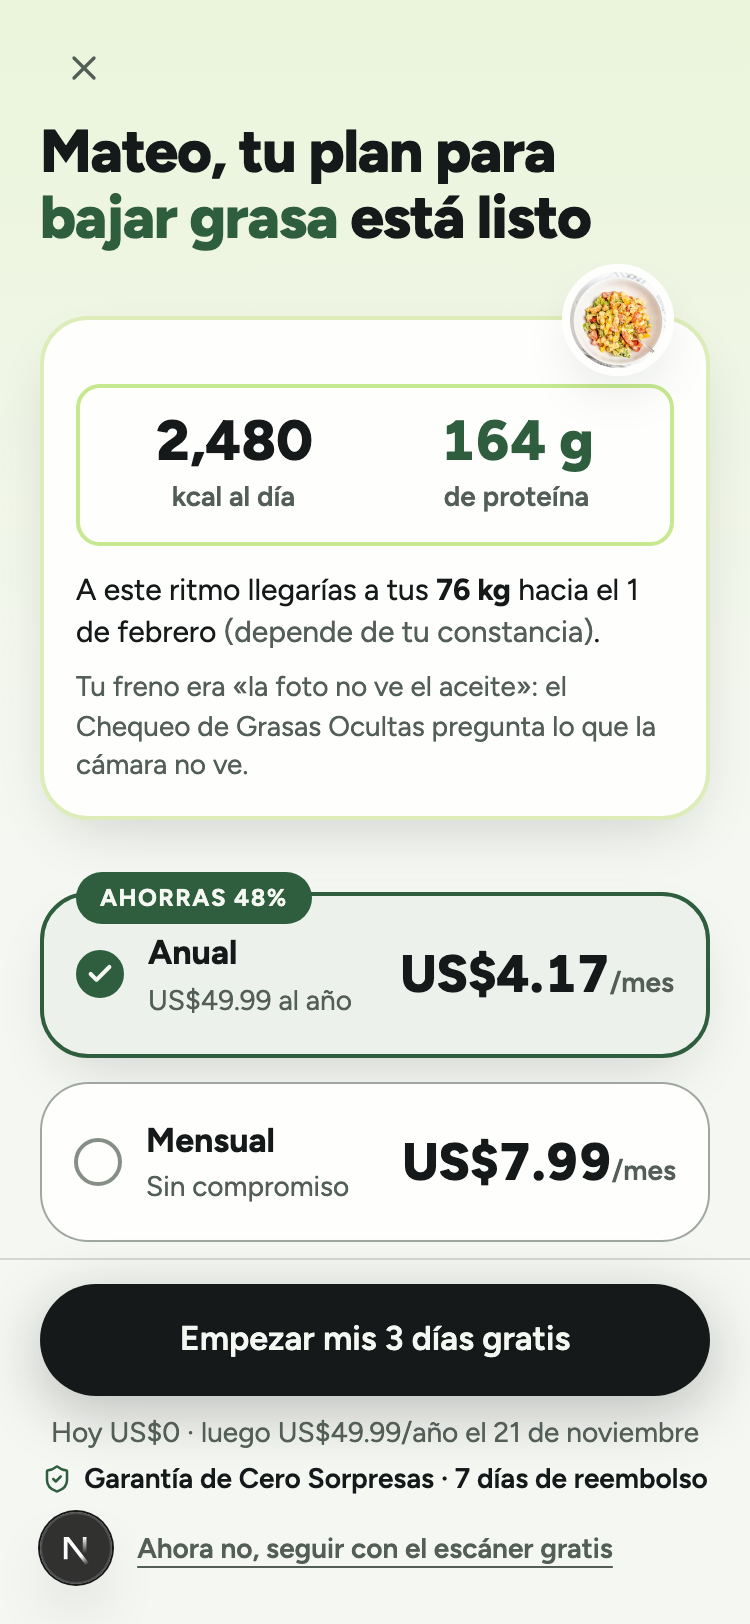
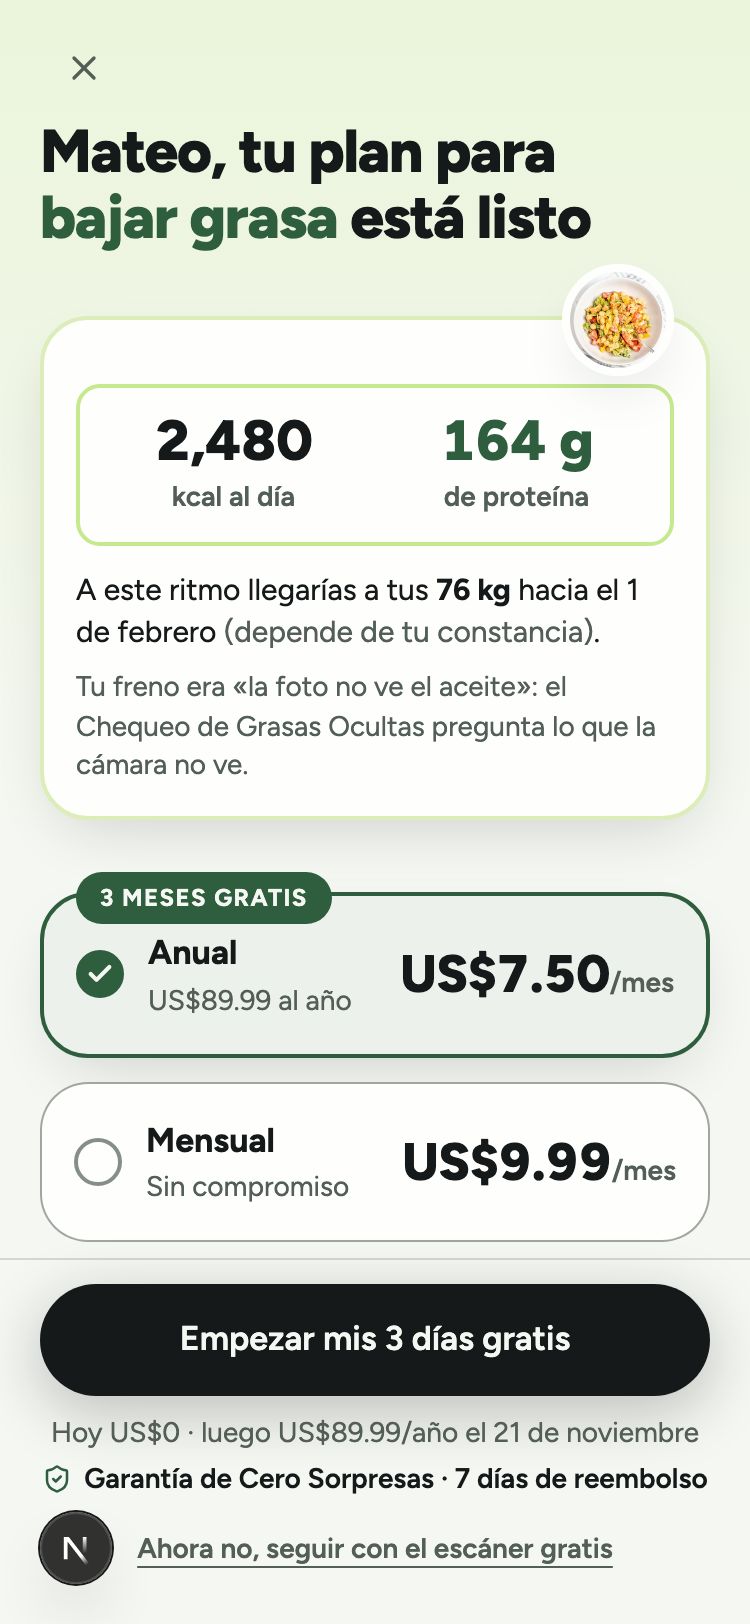
feat: precios nuevos (US$9.99 mes, US$89.99 año) y textos coherentes en landing, planes, términos y panel

diff --git a/components/onboarding/Paywall.tsx b/components/onboarding/Paywall.tsx
@@ -61,7 +61,7 @@ export function Paywall() {
   }
 
   const { perfil } = estado;
-  const monto = elegido === 'anual' ? 'US$49.99' : 'US$7.99';
+  const monto = elegido === 'anual' ? 'US$89.99' : 'US$9.99';
   const periodo = elegido === 'anual' ? 'año' : 'mes';
   const metaFecha = fechaMeta(perfil, plan);
   const freno = perfil.dolor ? DOLORES[perfil.dolor] : null;
@@ -123,8 +123,8 @@ export function Paywall() {
 
       <motion.section {...entrada(4)} aria-label="Elige tu plan" className="mt-6 flex flex-col gap-3" role="radiogroup" onKeyDown={alTeclado}>
         {([
-          ['anual', 'Anual', 'US$49.99 al año', 'US$4.17', 'Ahorras 48%'],
-          ['mensual', 'Mensual', 'Sin compromiso', 'US$7.99', ''],
+          ['anual', 'Anual', 'US$89.99 al año', 'US$7.50', '3 meses gratis'],
+          ['mensual', 'Mensual', 'Sin compromiso', 'US$9.99', ''],
         ] as const).map(([id, nombre, det, precio, badge]) => (
           <motion.button key={id} type="button" whileTap={{ scale: 0.98 }} role="radio" aria-checked={elegido === id} tabIndex={elegido === id ? 0 : -1} onClick={() => setElegido(id)} className={`relative rounded-[var(--radius-card)] border p-4 text-left ${elegido === id ? 'border-2 border-[var(--accent)] bg-[color-mix(in_oklab,var(--accent)_8%,var(--surface))] shadow-[var(--shadow-2)]' : 'border-[color-mix(in_oklab,var(--text-secondary)_55%,transparent)] bg-[var(--surface)]'}`}>
             {badge && <span className="absolute -top-3 left-4 rounded-full bg-[var(--accent)] px-3 py-1 text-[12px] font-bold uppercase tracking-[0.06em] text-[var(--bg)]">{badge}</span>}

diff --git a/app/page.tsx b/app/page.tsx
@@ -112,16 +112,16 @@ export default function Page() {
       />
 
       <Oferta
-        tituloMarked="Empieza gratis. Sigue por [acento]US$4.17 al mes[/acento]"
+        tituloMarked="Empieza gratis. Sigue por [acento]US$7.50 al mes[/acento]"
         trialDias={3}
         aviso="Acceso anticipado: estamos terminando la app y estás entre los primeros en probarla."
         anual={{
           nombre: 'Anual',
-          badge: 'MEJOR PRECIO',
-          precioMes: 'US$4.17',
-          totalAnual: 'Se cobra US$49.99 una vez al año',
-          ahorro: 'Casi 6 meses gratis',
-          descomposicionDia: 'menos de US$0.14 al día',
+          badge: '3 MESES GRATIS',
+          precioMes: 'US$7.50',
+          totalAnual: 'Se cobra US$89.99 una vez al año',
+          ahorro: 'Pagas 9 meses y usas 12',
+          descomposicionDia: 'menos de US$0.25 al día',
           ctaLabel: CTA_LABEL,
           ctaHref: '/onboarding?plan=anual',
           notaCta: 'Aviso 1 día antes de cobrar · Reembolso de 7 días',
@@ -134,7 +134,7 @@ export default function Page() {
         }}
         mensual={{
           nombre: 'Mensual',
-          precioMes: 'US$7.99',
+          precioMes: 'US$9.99',
           ctaLabel: 'Probar mi primera foto gratis',
           ctaHref: '/onboarding?plan=mensual',
           notaCta: 'Aviso 1 día antes de cobrar · Reembolso de 7 días',

diff --git a/app/terminos/page.tsx b/app/terminos/page.tsx
@@ -26,7 +26,7 @@ export default function Page() {
           cuerpo: (
             <Lista items={[
               'Plan gratuito: incluye el escáner de códigos de barras, sin límite de tiempo.',
-              'Plan de pago: incluye fotos con el Chequeo de Grasas Ocultas (hasta 8 por día), corrección por voz, puntos, logros y tu camino a la meta. Precios de lanzamiento: US$7.99 al mes o US$49.99 al año.',
+              'Plan de pago: incluye fotos con el Chequeo de Grasas Ocultas (hasta 8 por día), corrección por voz, puntos, logros y tu camino a la meta. Precios de lanzamiento: US$9.99 al mes o US$89.99 al año.',
               'Los cobros los procesa Hotmart. El valor final en tu moneda puede variar según tu banco o el tipo de cambio.',
             ]} />
           ),

diff --git a/ESTADO.md b/ESTADO.md
@@ -5,6 +5,7 @@
 ⚖ AUDITORÍA LEGAL HECHA (2026-11-18): responsable = Luisa (persona natural, Colombia, contacto lucarouribe10@gmail.com — datos en lib/legal.ts; la dueña dio solo el nombre «Luisa»). Páginas reescritas y completas: privacidad (13 secciones: datos de salud como sensibles, subprocesadores nombrados Supabase/Vercel/Anthropic/Resend/Hotmart, transferencia internacional, voz = navegador, cookies solo esenciales, retención, derechos Ley 1581 con plazos, SIC, menores 18+), términos, reembolsos (7 días, Hotmart procesa), aviso de IA (no es consejo médico, trastornos alimentarios). Autorización: tabla consentimientos (migración 20261118000008 aplicada), casilla NO premarcada en Login + /consentimiento + PuertaLegal en la app; borrado real de cuenta (/api/cuenta/eliminar + botón en Perfil; cascada verificada por SQL sin restos); micro-aviso de IA junto al resultado; correo de contacto en el pie y en cada página. PENDIENTE (solo humano / futuro): nombre completo y ciudad del responsable (Ley 1581 pide identificación y domicilio); verificar con Anthropic la retención/no-entrenamiento (la página dice «según sus términos comerciales no entrena con datos de la API»); confirmar con Hotmart desde cuándo cuenta la garantía de 7 días (la página dice «7 días siguientes al cobro») y el aviso 1 día antes por correo (aún no existe); depurar por cron los registros anónimos de uso (retención no implementada); dominio propio para el correo de soporte; pre-aviso del cobro anual (California ARL) cuando exista el correo; contador local al primer ingreso; validar con abogado si superan ~US$ 1.000/mes. Esta auditoría es de completitud profesional, no asesoría legal colegiada.
 🔐 Auditoría de seguridad, etapa 1 (solo lectura) HECHA el 2026-11-18. El informe vive en docs/privado/ (carpeta ignorada por git, NO se sube) y la dueña espera su aprobación para la etapa 2 (arreglos uno por uno, avisando antes de cada uno). Nunca escribir hallazgos de seguridad en archivos versionados mientras el repositorio sea público.
 🔐 Etapa 2 de seguridad (en curso, aprobada por la dueña 2026-11-18): HECHOS 1) /api/evento y /api/error rechazan otros orígenes (lib/servidor/limite.ts → mismoOrigen); 2) tope de 1 MB en app_state (migración 20261118000009 aplicada); 3) cabeceras en next.config.ts (anti-iframe, nosniff, referrer, permisos; CSP completa en modo SOLO REPORTE — falta pasarla a bloqueo tras revisar producción). PENDIENTE de la etapa 2: repositorio privado (lo hace ella), C1 acceso por plan (se hace con Hotmart), R1-R4.
+💲 DECISIÓN DE PRECIO (2026-11-18, dueña + checklist del curso): prueba se QUEDA en 3 días (decisión de la dueña; la regla del curso pide 14 para apps de hábito, se mide y se prueba 7 si la conversión prueba→pago es baja); precios NUEVOS: US$9.99/mes y US$89.99/año («3 meses gratis», US$7.50/mes; sin la palabra descuento). Aplicado en landing, paywall, perfil, términos, reembolsos y panel. Hotmart debe crearse con ESTOS precios. Pendientes del checklist: contador de fotos visible ANTES de tomar la foto (hoy el aviso de límite sale después), recordatorio diario por correo, comprobar que Hotmart permite garantía 7 > prueba 3. FICHA-MERCADO aún dice 7.99/49.99: actualizar.
 ⏸ PENDIENTES GUARDADOS (2026-11-18, la dueña va paso a paso con el curso; se retoman cuando ella diga): (1) HOTMART — la app HOY no cobra ni controla acceso por plan (paywall → /entrar → app completa). Plan de 5 pasos acordado: ella crea cuenta de productora + producto de suscripción (mensual US$7.99 / anual US$49.99, prueba 3 días en ambos, garantía 7 días); yo construyo webhook firmado (hottok en Vercel, la pega ella), idempotencia, acceso por plan (sin pago = escáner gratis), paywall → checkout Hotmart con sck/anon_id → login con el mismo correo; luego dominio + Resend para enviar a clientes; prueba de compra de punta a punta. Pregunta abierta: ¿ya tiene cuenta de Hotmart? Plazos Hotmart y aviso 1 día antes por correo NO VERIFICADOS (FICHA-MERCADO §3-4). (2) Panel admin Fase 2: 3ª pasada del revisor (NO LISTA 29-30/40 en la 2ª; ya corregido sin re-revisar). (3) Paywall NO LISTA 31/15/15: stack de valor junto a planes, pie en 3 elementos, un héroe numérico, objeción de pago, transición de plan. (4) 3ª revisión de hoy/landing/onboarding tras estilo v3. (5) Fase 3 del panel (Ventas/Ganancia/Negocio) junto con Hotmart; Fase 4 Ajustes/avisos. (6) Clave Anthropic caduca 18 dic 2026; límite mensual US$5 ya puesto. (7) Proyecto Supabase de producción separado antes de clientes reales.
 Histórico (2026-11-14): Fase: Etapa 6, paso Supabase. Estilo v2 aplicado a toda la app (2 rondas de revisión, todas NO LISTA y documentadas); IA real de fotos funciona (clave guardada, nota 'Cuéntale algo del plato' hecha). Supabase: cuenta+proyecto creados por el usuario; esquema SQL en supabase/migrations/20261114000001_init.sql EJECUTADO en Supabase (6 tablas con RLS, vía conector; advisor de seguridad limpio); paquetes @supabase/ssr y supabase-js instalados; decisiones de auth/modelo/RLS ya anotadas en 'Etapa 6 — decisiones técnicas'. Claves pública y URL ya guardadas en .env.local. Login real CONSTRUIDO (código de 8 dígitos (así lo envía Supabase) + enlace /auth/confirm, proxy.ts protege /app con getClaims, /auth/salir POST, DEV_BYPASS_AUTH solo dev). tsc ✓ build ✓ redirección /app→/entrar verificada; LOGIN REAL PROBADO por el usuario (llegó el correo por Resend SMTP con onboarding@resend.dev, entró a /app). Resend: solo envía a su propio correo hasta verificar dominio. Plantillas de Supabase ya con &oacute; (tildes OK). Datos en la nube: lib/nube.ts + useAppData sincronizan AppData completo en app_state.data (la nube manda; demo NUNCA se sube; subida con 700 ms de espera); RLS probado por SQL (propio ✓, ajeno 0 filas, entitlements no modificable). LOGO del usuario (PNG con transparencia, 2026-11-17) aplicado: components/landing/Isotipo.tsx = versión PLANA en SVG (tokens) para espacios chicos (copia suelta en public/logo/isotipo-plano.svg); el logo original brillante queda de favicon/icono; favicon app/icon.png y app/apple-icon.png; original en public/logo/original.webp (falta versión SVG y con el nombre escrito; falta imagen para compartir/OG). El usuario rechazó el encabezado de Hoy (opciones 1 y 2) y pidió estilo MÁS CLARO/PASTEL con 5 referencias de Pinterest (platos recortados en círculo, macros en tarjetas pastel, nav blanca flotante, acentos negros). Propuesta en 3 pantallas (Hoy, Resultado, Progreso) en public/propuesta-clara.html — pendiente su OK para aplicarla a TODA la app (FICHA-ARTE v3) y BORRAR public/propuesta-clara.html y public/hoy-opciones.html (no deben ir a producción). Fotos nuevas de Unsplash en public/fotos (licencias en docs/proyecto/FOTOS-LICENCIAS.md). VERIFICADO 2026-11-18: recorrido real → login con código → app_state de la cuenta con nombre Carolina, meta 2.080 kcal, demo=false, 1 comida, 25 XP (guardado en la nube OK). Recarga desde navegador limpio PROBADA por el usuario (los datos volvieron desde la cuenta). CUENTAS REALES FUNCIONANDO (login + app protegida + datos en la nube). Próximo: publicar (GitHub+Vercel) → dominio+Resend → Hotmart (checkout+webhook firmado+entitlements) → tope de IA por usuario; seguridad: borrar claves de prueba de Anthropic y crear una de producción con límite. Antes pendiente: prueba real onboarding→/app y recarga desde otro navegador; tablas comidas/pesos siguen sin usar (V2/analítica); conflicto multi-pestaña = última escritura gana. Próximo paso exacto: el usuario edita en Supabase las plantillas 'Confirm signup' y 'Magic link' con supabase/email-codigo-acceso.html + Site URL http://localhost:3000; luego prueba real con su correo; después migrar localStorage→tablas y tope de IA por usuario. Pendiente de seguridad: borrar claves de prueba de Anthropic y crear una de producción con límite de gasto; la clave secreta de Supabase solo en servidor.
 

diff --git a/FICHA-MERCADO.md b/FICHA-MERCADO.md
@@ -3,7 +3,7 @@
 - MyFitnessPal Premium: US$19.99/mes · US$79.99/año (EE.UU., varias fuentes 2026; verificar en la tienda).
 - Cal AI (ficha App Store, EE.UU.): US$14.99/mes · US$39.99/año · semanal US$4.99 · familiar US$59.99/año. Fuentes de terceros discrepan.
 - Fitia (español/LATAM): precio NO ENCONTRADO — verificar en la app. Trial 3 días SOLO en plan anual (fitia.app/help).
-- Mediana de referencia ≈ US$14.99/mes · ~US$60/año. Nuestro precio propuesto: US$7.99/mes · US$49.99/año (dentro de ±30% en anual; mensual a casi la mitad de Cal AI).
+- Mediana de referencia ≈ US$14.99/mes · ~US$60/año. Nuestro precio (actualizado 2026-11-18): US$9.99/mes · US$89.99/año (3 meses gratis) (dentro de ±30% en anual; mensual a casi la mitad de Cal AI).
 ## 2. Prueba gratis
 - Referencia: Fitia 3 días (solo plan anual; fitia.app/help). Elegida: 3 días en ambos planes (el valor se siente en la primera foto; el reporte semanal no depende de la prueba). Se avisa 1 día antes del cobro, con fecha y monto.
 ## 3. Medios de pago
